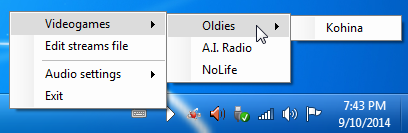
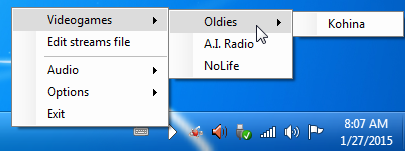
Updated README and screenshots.

diff --git a/README.md b/README.md
@@ -2,7 +2,7 @@
 ## About
 
 GaGa is a very lightweight, simple online radio player that runs as an icon
-on the Windows tray. It's similar to [RadioTray][] for Linux. Here is a
+on the Windows tray. It's similar to [RadioTray][] for Linux. Here are two
 screenshot:
 
 ![Screenshot1](https://raw.github.com/Beluki/GaGa/master/Screenshot/Screenshot1.png)
@@ -10,6 +10,9 @@ screenshot:
 Left click on the icon toggles play/stop. Middle click (with the mouse wheel)
 toggles mute. Right click opens the menu with a list of streams. The icon
 reflects the current state (e.g. an animation while buffering).
+
+GaGa also implements global hotkeys using multimedia keys. Toggle them on
+or off in the options submenu if your keyboard has them.
 
 On a modern system, GaGa typically uses about 16 MB of ram and 1% CPU while
 playing. It supports .m3u, .asx, .mp3 and basically everything that Windows
@@ -93,10 +96,10 @@ will work, although I suggest something better such as [Notepad2][] or
 
 ## Status
 
-There are no known bugs in GaGa. I may still add new features. Nice things
-to have would be .pls format support, being able to change the streams file
-location (or support per-user files) and global hotkeys (using multimedia keys).
-Contributions and ideas are welcome, as are bug reports.
+This program is finished!
+
+GaGa is feature-complete and has no known bugs. Unless issues are reported
+I plan no further development on it other than maintenance.
 
 ## License
 
